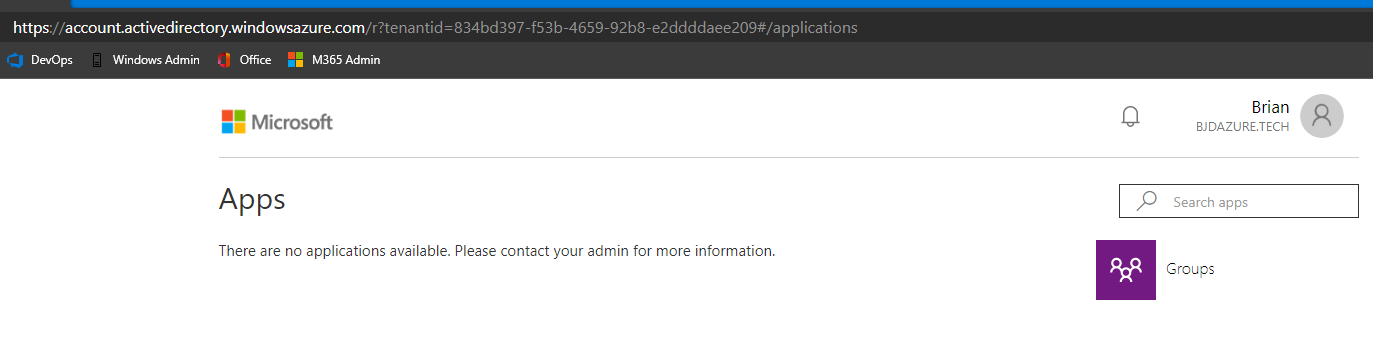
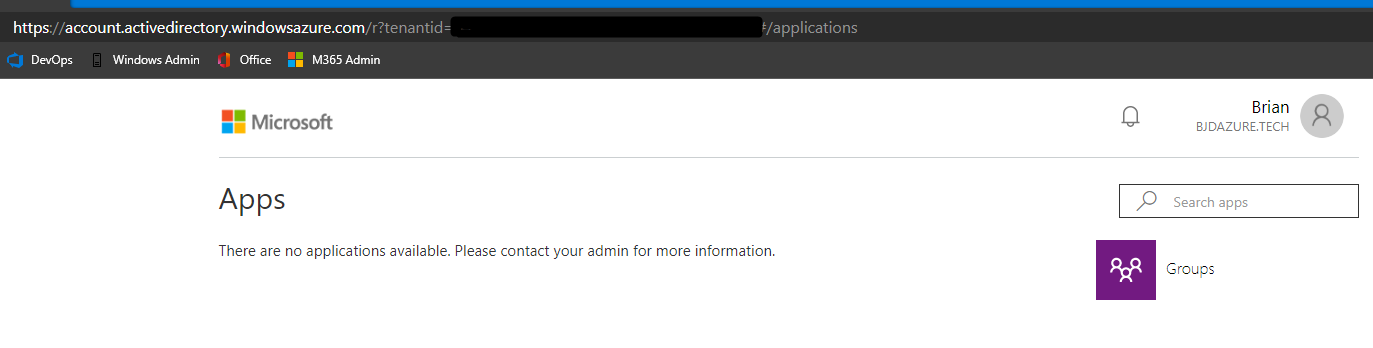
Azure AD Configuration

Changed region(s): [[0.3059, 0.0287, 0.5812, 0.1149]]

diff --git a/azure-ad-configuration.md b/azure-ad-configuration.md
@@ -1,0 +1,44 @@
+# Overview 
+This section walks through the federation of Azure AD with the ADFS server previously configured
+
+# Pre-requisties 
+* Download the ADFS metadata file. The URL will be listed in the ADFS Management Console under ADFS > Service > Endpoint
+    * Should be in the form https://_sts.adfsdomain.com_/FederationMetadata/2007-06/FederationMetadata.xml
+    * Invoke-WebRequest -UseBasicParsing -Uri https://sts.briandenicola.dev/FederationMetadata/2007-06/FederationMetadata.xml -OutFile .\FederationMetadata.xml
+
+# Azure AD Steps
+1. Log into the Azure AD tenanat as a global Administrator and navigate to [External Identities](https://portal.azure.com/#blade/Microsoft_AAD_IAM/CompanyRelationshipsMenuBlade/IdentityProviders)
+2. Click 'New SAML/WS-Fed Idp'
+3. Select 'SAML' for Identity Provider Protocol 
+4. Domain Name for Federation _sts.adfsdomain.com_ or _adfs.adfsdomain.com_
+5. Select 'Parse metadata file'
+6. Upload FederationMetadata.xml
+7. Select Parse 
+8. Save
+    * Example  
+    ![Parse](./assets/azure-ad-external-identity-setup.png)
+
+# External Guest User
+1. In the [Azure AD Users panel](https://portal.azure.com/#blade/Microsoft_AAD_IAM/UsersManagementMenuBlade/AllUsers), click 'New Guest User'
+2. Enter a user name, First and last name
+3. For Email Address, enter the email of user as defined in user's email attribute in Active Directory
+    * For example: brian@briandenicola.dev  
+    ![Email](./assets/azure-ad-user-email.png)
+4. The user will be added to the tenant's list of users. The acccount's source will be blank until the user logs into the tenant. Afterwards, it will update to 'Invited User'  
+    ![Users](./assets/azure-ad-users.png)
+    ![User](./assets/azure-ad-external-user.png)
+
+# Logon Experience 
+1. The end user can test their access to the Azure AD tenant by going to the myapps.microsoft.com link
+    * The Tenant ID will need to be appended to the URL so that MyApp knows what Tenant to lookup the user account - https://myapps.microsoft.com/?tenantid=834bd397-f53b-4659-xyz-1111111111
+2. Enter the user's email address  
+    ![0](./assets/azure-ad-external-user-signin-0.png)
+3. Redirection to their Idp Provider  
+    ![1](./assets/azure-ad-external-user-signin-1.png)
+4. Enter the user password as set in Active Directory/ADFS  
+    ![2](./assets/azure-ad-external-user-signin-2.png)
+5. Will be redirected back and granted access to the Azure AD tenant  
+    ![3](./assets/azure-ad-external-user-signin-3.png)
+6. At first, the user may not have any applications defined but they have access to the Azure AD tenanat 
+    ![4](./assets/azure-ad-external-user-signin-4.png)  
+    ![5](./assets/azure-ad-external-user-signin-5.png)  
